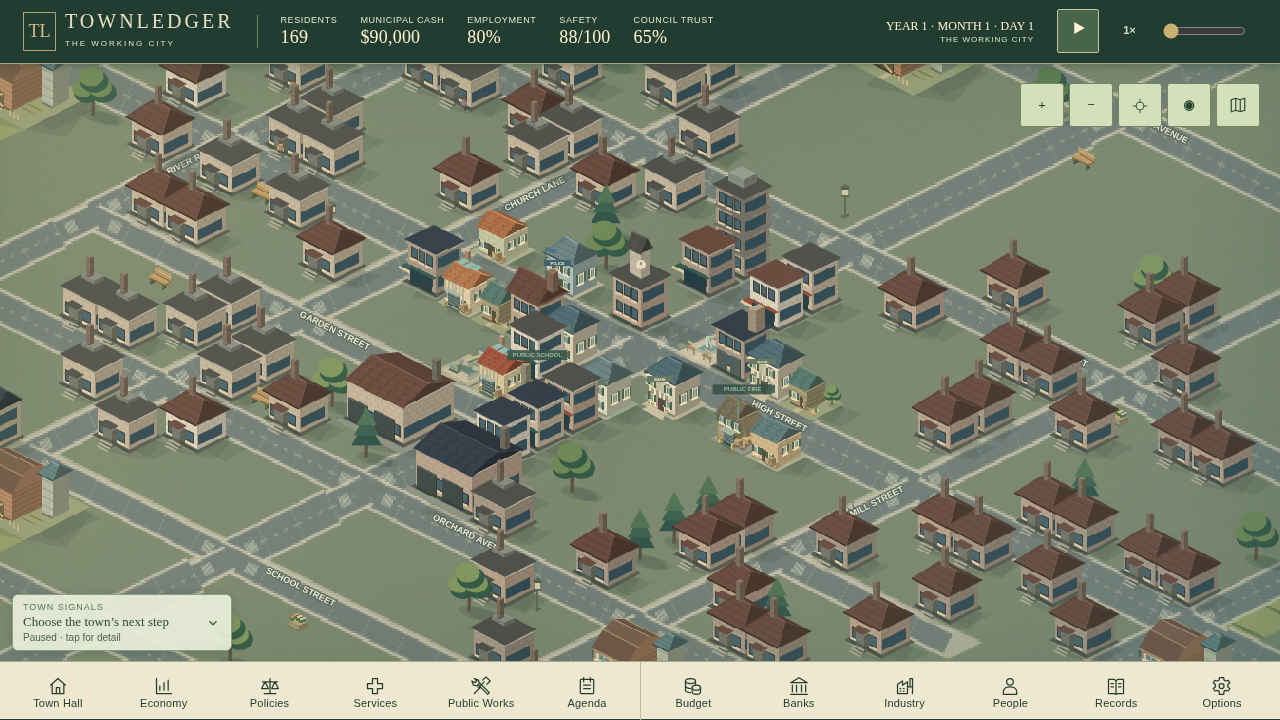
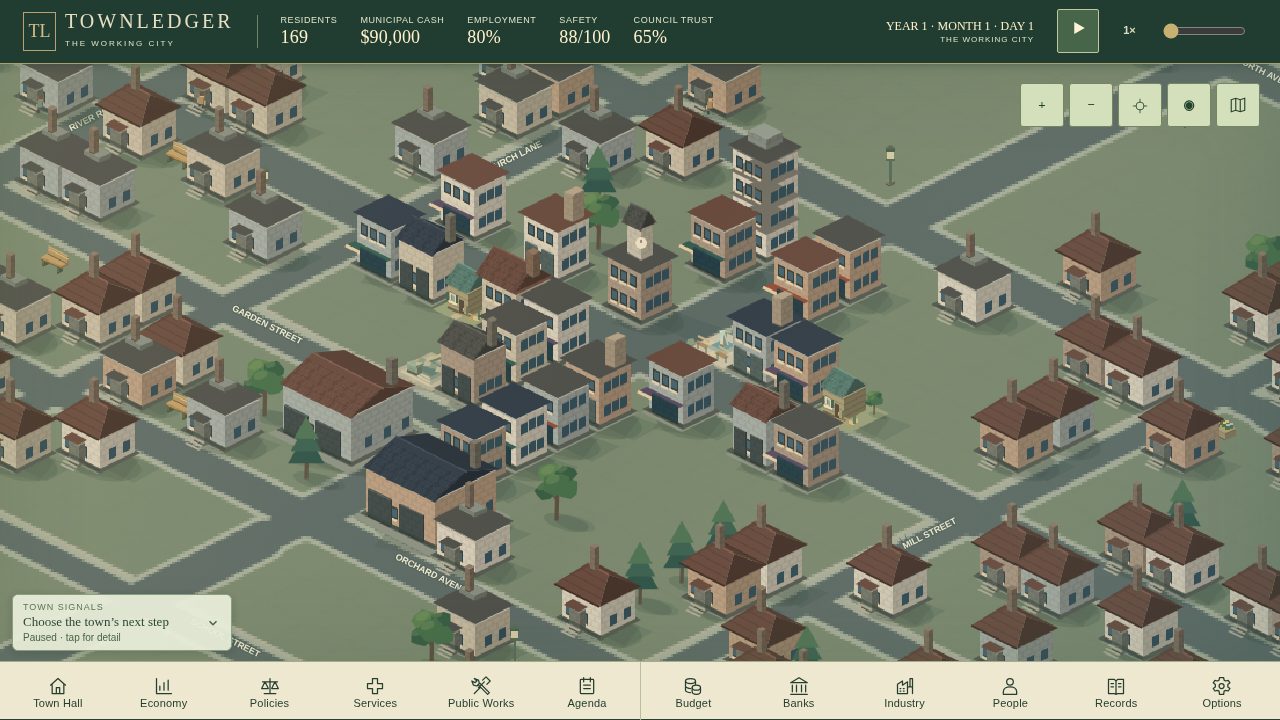
Refine coherent neighbourhood preview and connected road surfaces

diff --git a/assets/game.js b/assets/game.js
@@ -3978,10 +3978,12 @@ function drawGround(){
  }
  drawAirfieldGround(bg);
  // Streets have sidewalks and a visible hierarchy, with crossings at junctions.
- for(const [id,links] of net.neighbors){const a=roadCenter(id);for(const n of links){if(n<id)continue;const q=roadCenter(n),kind=G.roadClasses?.[id]||'local',width=kind==='arterial'?32:kind==='collector'?26:20;
-  segment(bg,a,q,'#c4bfa6',width+9);if(!fastRender)segment(bg,a,q,'#7e8881',width+3);segment(bg,a,q,'#717d77',width);if(!fastRender&&kind!=='local'){bg.setLineDash([4,8]);segment(bg,a,q,'#d5c99d',1);bg.setLineDash([]);}
+ if(window.CITY_REDESIGN)bg.lineCap='round';
+ for(const [id,links] of net.neighbors){const a=roadCenter(id);for(const n of links){if(n<id)continue;const q=roadCenter(n),kind=G.roadClasses?.[id]||'local',width=kind==='arterial'?32:kind==='collector'?26:20;if(window.CITY_REDESIGN)continue;
+  segment(bg,a,q,window.CITY_REDESIGN?'#a7ad98':'#c4bfa6',width+9);if(!fastRender)segment(bg,a,q,'#7e8881',width+3);segment(bg,a,q,window.CITY_REDESIGN?'#5e6b65':'#717d77',width);if(!fastRender&&kind!=='local'){bg.setLineDash([4,8]);segment(bg,a,q,'#d5c99d',1);bg.setLineDash([]);}
  }}
- for(const [id,links] of net.neighbors){if(links.length<3)continue;const a=roadCenter(id);bg.fillStyle='#717d77';bg.beginPath();bg.ellipse(...a,17,9,0,0,Math.PI*2);bg.fill();
+ if(window.CITY_REDESIGN)for(const pass of [0,1])for(const [id,links] of net.neighbors)for(const n of links){if(n<id)continue;const kind=G.roadClasses?.[id]||'local',width=kind==='arterial'?32:kind==='collector'?26:20;segment(bg,roadCenter(id),roadCenter(n),pass?'#5e6b65':'#a7ad98',width+(pass?0:9));}
+ for(const [id,links] of net.neighbors){if(window.CITY_REDESIGN||links.length<3)continue;const a=roadCenter(id);bg.fillStyle='#717d77';bg.beginPath();bg.ellipse(...a,17,9,0,0,Math.PI*2);bg.fill();
   if(!fastRender)for(const n of links){const q=roadCenter(n),dx=q[0]-a[0],dy=q[1]-a[1],l=Math.hypot(dx,dy),ux=dx/l,uy=dy/l,nx=-uy,ny=ux;for(let j=0;j<4;j++){const x=a[0]+ux*(21+j*3),y=a[1]+uy*(21+j*3);segment(bg,[x+nx*6,y+ny*6],[x-nx*6,y-ny*6],'#d4d3b8',1.4);}}
  }
  bg.restore();
@@ -7925,13 +7927,14 @@ if(new URLSearchParams(location.search).get('cityArt')==='prototype'||window.CIT
  window.CITY_REDESIGN=true;
  document.documentElement.classList.add('city-art-prototype');
  const priorArchitecture=architecture;
- const kit=new Set(['home','apartment','office','grocer','bakery','tavern','factory','warehouse','townhall','school','fire']);
+ const kit=new Set(['home','apartment','office','grocer','bakery','tavern','factory','warehouse','townhall','school','fire','police','clinic','college','courthouse','bank','contractor','mill','sawmill']);
  architecture=function(g,b,w,d){
   if(!kit.has(b.kind)||b.redevelopment){priorArchitecture(g,b,w,d);return;}
-  const residential=b.kind==='home',urban=['apartment','office'].includes(b.kind),industry=['factory','warehouse'].includes(b.kind),id=b.id||0;
+  const residential=b.kind==='home',urban=['apartment','office'].includes(b.kind),industry=['factory','warehouse','mill','sawmill'].includes(b.kind),id=b.id||0;
   const bw=w*(residential?.92:.82),bd=d*(residential?.83:.74),u=-bw/2,v=-bd/2;
-  const masonry=['#c7b79c','#bba58d','#dfd4bd','#a99a86'][id%4],roof=['#343e48','#50504a','#694b3e'][id%3];
+  const masonry=['#c6b99f','#a9957f','#d5cbb6','#a5aaa0','#ba9d80'][id%5],roof=['#343e48','#50504a','#694b3e'][id%3];
   // Broad quiet material planes replace the tiny pastel cottage vocabulary.
+  g.fillStyle='#273e3228';g.beginPath();g.ellipse(8,9,w*30,d*13,.14,0,Math.PI*2);g.fill();
   slab(g,-w*.48,-d*.48,w*.96,d*.96,1,'#8c9182');
   slab(g,u-.08,v-.08,bw+.16,bd+.16,3,'#555a50');
   const floors=urban?3+(id%3):industry?1:residential?2:2,H=industry?38:residential?(id%3===0?37:27):floors*20;
@@ -7940,12 +7943,12 @@ if(new URLSearchParams(location.search).get('cityArt')==='prototype'||window.CIT
   for(let f=0;f<floors;f++){
    if(residential&&f>0&&H<35)continue;const z=residential?8+f*17:10+f*20,columns=residential?2:3;
    for(let j=0;j<columns;j++){
-    const x=u+.09+j*(bw-.15)/columns,ww=(bw-.22)/columns;
-    polygon(g,[point(x,v+bd+.008,z),point(x+ww,v+bd+.008,z),point(x+ww,v+bd+.008,z+12),point(x,v+bd+.008,z+12)],'#3a3e39');
-    polygon(g,[point(x+.025,v+bd+.015,z+2),point(x+ww-.025,v+bd+.015,z+2),point(x+ww-.025,v+bd+.015,z+11),point(x+.025,v+bd+.015,z+11)],nightMode?'#f5c47d':'#47636c');
+    const ww=Math.min(.17,(bw-.25)/columns),x=u+.10+j*(bw-.18)/columns;
+    polygon(g,[point(x,v+bd+.008,z),point(x+ww,v+bd+.008,z),point(x+ww,v+bd+.008,z+10),point(x,v+bd+.008,z+10)],'#3a3e39');
+    polygon(g,[point(x+.025,v+bd+.015,z+2),point(x+ww-.025,v+bd+.015,z+2),point(x+ww-.025,v+bd+.015,z+9),point(x+.025,v+bd+.015,z+9)],nightMode?'#f5c47d':'#47636c');
     segment(g,point(x,v+bd+.04,z),point(x+ww,v+bd+.04,z),'#dfcfac',2);
     const y=v+.10+j*(bd-.15)/columns;
-    polygon(g,[point(u+bw+.01,y,z),point(u+bw+.01,y+ww,z),point(u+bw+.01,y+ww,z+11),point(u+bw+.01,y,z+11)],nightMode?'#cd9c5e':'#314952');
+    polygon(g,[point(u+bw+.01,y,z),point(u+bw+.01,y+ww,z),point(u+bw+.01,y+ww,z+9),point(u+bw+.01,y,z+9)],nightMode?'#cd9c5e':'#314952');
    }
    if(urban)slab(g,u-.035,v-.035,bw+.07,bd+.07,z+15,'#746f63');
   }
@@ -7955,7 +7958,7 @@ if(new URLSearchParams(location.search).get('cityArt')==='prototype'||window.CIT
    // A deep covered entry and broad steps give houses a grounded human scale.
    box(g,-.12,v+bd+.01,.25,.15,3,18,'#77786b');slab(g,-.18,v+bd+.01,.36,.23,24,roof);
    for(let j=0;j<3;j++)slab(g,-.17,v+bd+.16+j*.055,.34,.06,6-j*2,'#b1ac95');
-  }else if(['townhall','school','fire'].includes(b.kind)){
+  }else if(['townhall','school','fire','police','clinic','college','courthouse'].includes(b.kind)){
    slab(g,u-.08,v-.08,bw+.16,bd+.16,H+7,roof);
    if(b.kind==='townhall'){box(g,-.17,-.14,.34,.28,H+8,27,'#c4baa3');gable(g,-.19,-.16,.38,.32,H+35,13,roof);const p=point(.17,.15,H+23);g.fillStyle='#eadcbc';g.beginPath();g.arc(p[0],p[1],5,0,Math.PI*2);g.fill();segment(g,[p[0],p[1]],[p[0],p[1]-3],'#33474a');}
    else if(b.kind==='school'){gable(g,u-.04,v-.04,bw+.08,bd+.08,H+8,16,roof);box(g,u+bw*.72,v+.10,.15,.16,H+9,20,'#806752');}
@@ -7982,11 +7985,16 @@ if(new URLSearchParams(location.search).get('cityArt')==='prototype'||window.CIT
   segment(g,[0,3],[1,-36],'#5c5141',4);segment(g,[1,-17],[-9,-31],'#5c5141',2);
   const evergreen=id%4===0;
   if(evergreen){for(let j=0;j<3;j++)polygon(g,[[-19+j*3,-13-j*13],[0,-46-j*8],[19-j*3,-13-j*13]],['#315449','#3d6150','#507354'][j]);}
-  else for(const [x,y,r] of [[-10,-30,16],[11,-31,17],[0,-45,18]]){g.fillStyle='#345a45';g.beginPath();g.ellipse(x+2,y+4,r,r*.79,0,0,Math.PI*2);g.fill();g.fillStyle=['#5d7c50','#6f8956','#80965e'][id%3];g.beginPath();g.ellipse(x-2,y-2,r*.88,r*.70,0,0,Math.PI*2);g.fill();}
+  else{const crowns=[[-11,-28,12],[10,-31,14],[-5,-45,15],[10,-46,11],[0,-35,15]];
+   for(let j=0;j<crowns.length;j++){const [x,y,r]=crowns[j],seed=(id*13+j*7)%5;g.fillStyle=['#385d43','#476e49','#5c7f50'][j%3];g.beginPath();for(let k=0;k<10;k++){const a=k*Math.PI/5,rr=r*(.84+((k*7+seed)%5)*.065),xx=x+Math.cos(a)*rr,yy=y+Math.sin(a)*rr*.8;k?g.lineTo(xx,yy):g.moveTo(xx,yy);}g.closePath();g.fill();g.fillStyle='#8a9e6250';g.beginPath();g.ellipse(x-4,y-5,r*.50,r*.31,-.4,0,Math.PI*2);g.fill();}
+  }
   g.restore();
  };
  const tileBase=diamond;
  diamond=function(g,x,y,fill,stroke){tileBase(g,x,y,fill,stroke);if(!stroke){g.strokeStyle=fill;g.lineWidth=2.4;g.stroke();}};
+ const detailBase=parcelDetails,identityBase=architecturalIdentity;
+ parcelDetails=function(g,b,w,d){if(!kit.has(b.kind))detailBase(g,b,w,d);};
+ architecturalIdentity=function(g,b,w,d){if(!kit.has(b.kind))identityBase(g,b,w,d);};
  const oldPalette=seasonPalette;
  seasonPalette=function(){const p=oldPalette();return {...p,grass:['#7b886e','#7b886e','#7b886e','#7b886e','#7b886e'],water:'#467d86',dark:'#60765b'};};
  const style=document.createElement('style');style.textContent='.city-art-prototype #mapStatusDeck{width:220px;opacity:.94}.city-art-prototype .topbar{box-shadow:0 2px 12px #132d3030}.city-art-prototype #tabs button{font-family:Arial,sans-serif;font-weight:500}';document.head.appendChild(style);

diff --git a/src/98zzzzzzzzzzzzzzzzz-visual-prototype.js b/src/98zzzzzzzzzzzzzzzzz-visual-prototype.js
@@ -4,13 +4,14 @@ if(new URLSearchParams(location.search).get('cityArt')==='prototype'||window.CIT
  window.CITY_REDESIGN=true;
  document.documentElement.classList.add('city-art-prototype');
  const priorArchitecture=architecture;
- const kit=new Set(['home','apartment','office','grocer','bakery','tavern','factory','warehouse','townhall','school','fire']);
+ const kit=new Set(['home','apartment','office','grocer','bakery','tavern','factory','warehouse','townhall','school','fire','police','clinic','college','courthouse','bank','contractor','mill','sawmill']);
  architecture=function(g,b,w,d){
   if(!kit.has(b.kind)||b.redevelopment){priorArchitecture(g,b,w,d);return;}
-  const residential=b.kind==='home',urban=['apartment','office'].includes(b.kind),industry=['factory','warehouse'].includes(b.kind),id=b.id||0;
+  const residential=b.kind==='home',urban=['apartment','office'].includes(b.kind),industry=['factory','warehouse','mill','sawmill'].includes(b.kind),id=b.id||0;
   const bw=w*(residential?.92:.82),bd=d*(residential?.83:.74),u=-bw/2,v=-bd/2;
-  const masonry=['#c7b79c','#bba58d','#dfd4bd','#a99a86'][id%4],roof=['#343e48','#50504a','#694b3e'][id%3];
+  const masonry=['#c6b99f','#a9957f','#d5cbb6','#a5aaa0','#ba9d80'][id%5],roof=['#343e48','#50504a','#694b3e'][id%3];
   // Broad quiet material planes replace the tiny pastel cottage vocabulary.
+  g.fillStyle='#273e3228';g.beginPath();g.ellipse(8,9,w*30,d*13,.14,0,Math.PI*2);g.fill();
   slab(g,-w*.48,-d*.48,w*.96,d*.96,1,'#8c9182');
   slab(g,u-.08,v-.08,bw+.16,bd+.16,3,'#555a50');
   const floors=urban?3+(id%3):industry?1:residential?2:2,H=industry?38:residential?(id%3===0?37:27):floors*20;
@@ -19,12 +20,12 @@ if(new URLSearchParams(location.search).get('cityArt')==='prototype'||window.CIT
   for(let f=0;f<floors;f++){
    if(residential&&f>0&&H<35)continue;const z=residential?8+f*17:10+f*20,columns=residential?2:3;
    for(let j=0;j<columns;j++){
-    const x=u+.09+j*(bw-.15)/columns,ww=(bw-.22)/columns;
-    polygon(g,[point(x,v+bd+.008,z),point(x+ww,v+bd+.008,z),point(x+ww,v+bd+.008,z+12),point(x,v+bd+.008,z+12)],'#3a3e39');
-    polygon(g,[point(x+.025,v+bd+.015,z+2),point(x+ww-.025,v+bd+.015,z+2),point(x+ww-.025,v+bd+.015,z+11),point(x+.025,v+bd+.015,z+11)],nightMode?'#f5c47d':'#47636c');
+    const ww=Math.min(.17,(bw-.25)/columns),x=u+.10+j*(bw-.18)/columns;
+    polygon(g,[point(x,v+bd+.008,z),point(x+ww,v+bd+.008,z),point(x+ww,v+bd+.008,z+10),point(x,v+bd+.008,z+10)],'#3a3e39');
+    polygon(g,[point(x+.025,v+bd+.015,z+2),point(x+ww-.025,v+bd+.015,z+2),point(x+ww-.025,v+bd+.015,z+9),point(x+.025,v+bd+.015,z+9)],nightMode?'#f5c47d':'#47636c');
     segment(g,point(x,v+bd+.04,z),point(x+ww,v+bd+.04,z),'#dfcfac',2);
     const y=v+.10+j*(bd-.15)/columns;
-    polygon(g,[point(u+bw+.01,y,z),point(u+bw+.01,y+ww,z),point(u+bw+.01,y+ww,z+11),point(u+bw+.01,y,z+11)],nightMode?'#cd9c5e':'#314952');
+    polygon(g,[point(u+bw+.01,y,z),point(u+bw+.01,y+ww,z),point(u+bw+.01,y+ww,z+9),point(u+bw+.01,y,z+9)],nightMode?'#cd9c5e':'#314952');
    }
    if(urban)slab(g,u-.035,v-.035,bw+.07,bd+.07,z+15,'#746f63');
   }
@@ -34,7 +35,7 @@ if(new URLSearchParams(location.search).get('cityArt')==='prototype'||window.CIT
    // A deep covered entry and broad steps give houses a grounded human scale.
    box(g,-.12,v+bd+.01,.25,.15,3,18,'#77786b');slab(g,-.18,v+bd+.01,.36,.23,24,roof);
    for(let j=0;j<3;j++)slab(g,-.17,v+bd+.16+j*.055,.34,.06,6-j*2,'#b1ac95');
-  }else if(['townhall','school','fire'].includes(b.kind)){
+  }else if(['townhall','school','fire','police','clinic','college','courthouse'].includes(b.kind)){
    slab(g,u-.08,v-.08,bw+.16,bd+.16,H+7,roof);
    if(b.kind==='townhall'){box(g,-.17,-.14,.34,.28,H+8,27,'#c4baa3');gable(g,-.19,-.16,.38,.32,H+35,13,roof);const p=point(.17,.15,H+23);g.fillStyle='#eadcbc';g.beginPath();g.arc(p[0],p[1],5,0,Math.PI*2);g.fill();segment(g,[p[0],p[1]],[p[0],p[1]-3],'#33474a');}
    else if(b.kind==='school'){gable(g,u-.04,v-.04,bw+.08,bd+.08,H+8,16,roof);box(g,u+bw*.72,v+.10,.15,.16,H+9,20,'#806752');}
@@ -61,11 +62,16 @@ if(new URLSearchParams(location.search).get('cityArt')==='prototype'||window.CIT
   segment(g,[0,3],[1,-36],'#5c5141',4);segment(g,[1,-17],[-9,-31],'#5c5141',2);
   const evergreen=id%4===0;
   if(evergreen){for(let j=0;j<3;j++)polygon(g,[[-19+j*3,-13-j*13],[0,-46-j*8],[19-j*3,-13-j*13]],['#315449','#3d6150','#507354'][j]);}
-  else for(const [x,y,r] of [[-10,-30,16],[11,-31,17],[0,-45,18]]){g.fillStyle='#345a45';g.beginPath();g.ellipse(x+2,y+4,r,r*.79,0,0,Math.PI*2);g.fill();g.fillStyle=['#5d7c50','#6f8956','#80965e'][id%3];g.beginPath();g.ellipse(x-2,y-2,r*.88,r*.70,0,0,Math.PI*2);g.fill();}
+  else{const crowns=[[-11,-28,12],[10,-31,14],[-5,-45,15],[10,-46,11],[0,-35,15]];
+   for(let j=0;j<crowns.length;j++){const [x,y,r]=crowns[j],seed=(id*13+j*7)%5;g.fillStyle=['#385d43','#476e49','#5c7f50'][j%3];g.beginPath();for(let k=0;k<10;k++){const a=k*Math.PI/5,rr=r*(.84+((k*7+seed)%5)*.065),xx=x+Math.cos(a)*rr,yy=y+Math.sin(a)*rr*.8;k?g.lineTo(xx,yy):g.moveTo(xx,yy);}g.closePath();g.fill();g.fillStyle='#8a9e6250';g.beginPath();g.ellipse(x-4,y-5,r*.50,r*.31,-.4,0,Math.PI*2);g.fill();}
+  }
   g.restore();
  };
  const tileBase=diamond;
  diamond=function(g,x,y,fill,stroke){tileBase(g,x,y,fill,stroke);if(!stroke){g.strokeStyle=fill;g.lineWidth=2.4;g.stroke();}};
+ const detailBase=parcelDetails,identityBase=architecturalIdentity;
+ parcelDetails=function(g,b,w,d){if(!kit.has(b.kind))detailBase(g,b,w,d);};
+ architecturalIdentity=function(g,b,w,d){if(!kit.has(b.kind))identityBase(g,b,w,d);};
  const oldPalette=seasonPalette;
  seasonPalette=function(){const p=oldPalette();return {...p,grass:['#7b886e','#7b886e','#7b886e','#7b886e','#7b886e'],water:'#467d86',dark:'#60765b'};};
  const style=document.createElement('style');style.textContent='.city-art-prototype #mapStatusDeck{width:220px;opacity:.94}.city-art-prototype .topbar{box-shadow:0 2px 12px #132d3030}.city-art-prototype #tabs button{font-family:Arial,sans-serif;font-weight:500}';document.head.appendChild(style);

diff --git a/src/65-landscape.js b/src/65-landscape.js
@@ -251,10 +251,12 @@ function drawGround(){
  }
  drawAirfieldGround(bg);
  // Streets have sidewalks and a visible hierarchy, with crossings at junctions.
- for(const [id,links] of net.neighbors){const a=roadCenter(id);for(const n of links){if(n<id)continue;const q=roadCenter(n),kind=G.roadClasses?.[id]||'local',width=kind==='arterial'?32:kind==='collector'?26:20;
-  segment(bg,a,q,'#c4bfa6',width+9);if(!fastRender)segment(bg,a,q,'#7e8881',width+3);segment(bg,a,q,'#717d77',width);if(!fastRender&&kind!=='local'){bg.setLineDash([4,8]);segment(bg,a,q,'#d5c99d',1);bg.setLineDash([]);}
+ if(window.CITY_REDESIGN)bg.lineCap='round';
+ for(const [id,links] of net.neighbors){const a=roadCenter(id);for(const n of links){if(n<id)continue;const q=roadCenter(n),kind=G.roadClasses?.[id]||'local',width=kind==='arterial'?32:kind==='collector'?26:20;if(window.CITY_REDESIGN)continue;
+  segment(bg,a,q,window.CITY_REDESIGN?'#a7ad98':'#c4bfa6',width+9);if(!fastRender)segment(bg,a,q,'#7e8881',width+3);segment(bg,a,q,window.CITY_REDESIGN?'#5e6b65':'#717d77',width);if(!fastRender&&kind!=='local'){bg.setLineDash([4,8]);segment(bg,a,q,'#d5c99d',1);bg.setLineDash([]);}
  }}
- for(const [id,links] of net.neighbors){if(links.length<3)continue;const a=roadCenter(id);bg.fillStyle='#717d77';bg.beginPath();bg.ellipse(...a,17,9,0,0,Math.PI*2);bg.fill();
+ if(window.CITY_REDESIGN)for(const pass of [0,1])for(const [id,links] of net.neighbors)for(const n of links){if(n<id)continue;const kind=G.roadClasses?.[id]||'local',width=kind==='arterial'?32:kind==='collector'?26:20;segment(bg,roadCenter(id),roadCenter(n),pass?'#5e6b65':'#a7ad98',width+(pass?0:9));}
+ for(const [id,links] of net.neighbors){if(window.CITY_REDESIGN||links.length<3)continue;const a=roadCenter(id);bg.fillStyle='#717d77';bg.beginPath();bg.ellipse(...a,17,9,0,0,Math.PI*2);bg.fill();
   if(!fastRender)for(const n of links){const q=roadCenter(n),dx=q[0]-a[0],dy=q[1]-a[1],l=Math.hypot(dx,dy),ux=dx/l,uy=dy/l,nx=-uy,ny=ux;for(let j=0;j<4;j++){const x=a[0]+ux*(21+j*3),y=a[1]+uy*(21+j*3);segment(bg,[x+nx*6,y+ny*6],[x-nx*6,y-ny*6],'#d4d3b8',1.4);}}
  }
  bg.restore();

diff --git a/docs/previews/visual-prototype-8/TASTE-V2.md b/docs/previews/visual-prototype-8/TASTE-V2.md
@@ -1,0 +1,7 @@
+# Revised neighbourhood direction preview
+
+Use taste-v2-before.png and taste-v2-after.png for review; previous taste images are superseded. Same169-resident seeded town, actual centre and zoom controls, same1280×720 camera. No image compositing or concept-art assets. Bundle SHA2566cd48a18f863edc7d0ed85393d8b735c2778032b343a55269f802a0c71e0bc54.
+
+Revisions: individual framed windows rather than dark facade bands; a broader roof/material kit across civic and business buildings; irregular tree crowns; a continuous ground surface; connected roads rendered as full curb and asphalt passes instead of repeated overlapping segment ends. This remains an opt-in playable direction preview, not a finished overhaul or production replacement. The bridge is not featured in this neighbourhood capture and still requires separate aesthetic review.
+
+Both variants passed supported local HTTP save/Continue/reload, simulation archive/RNG invariance through drawing and cold-cache rebuild, and no browser page errors. Host sixty-warm-draw sample1.4ms before/1.3ms after; no physical-device performance claim. Remaining work includes richer planting/landscape composition, complete lighting consistency, mobile and actor-motion acceptance, and the rejected bridge design.
